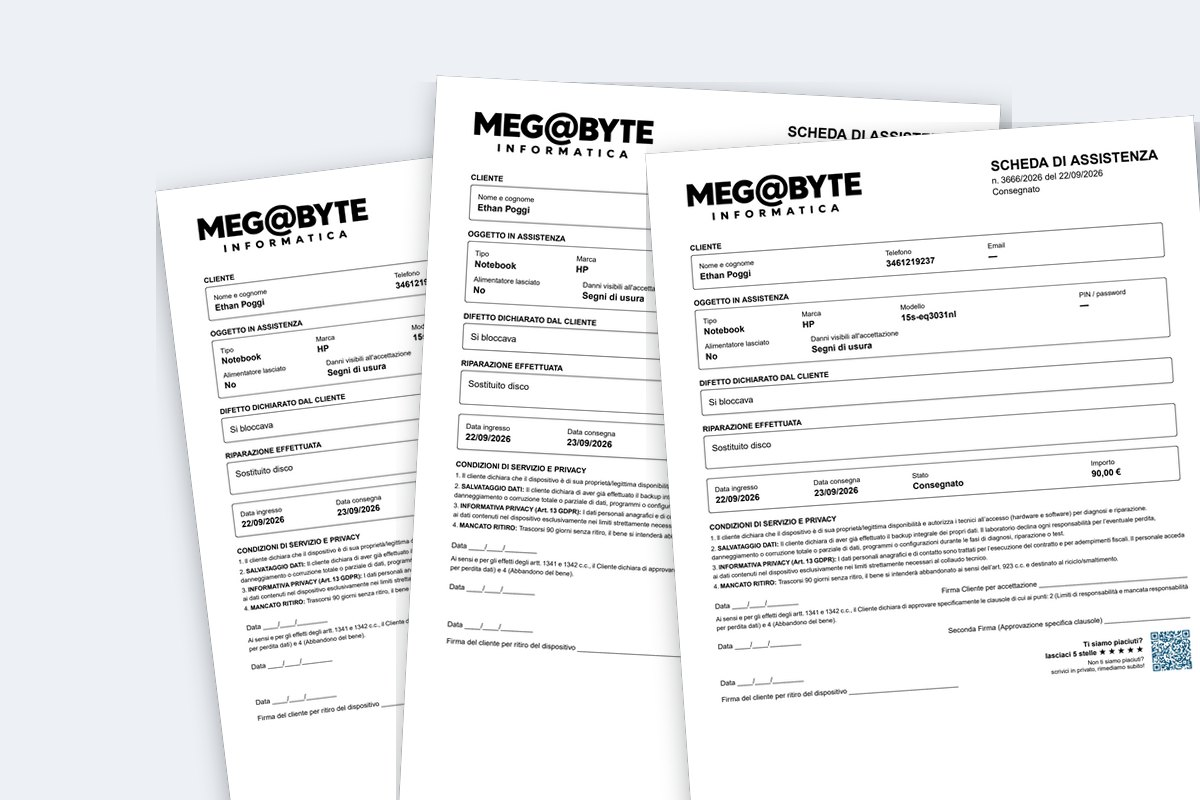
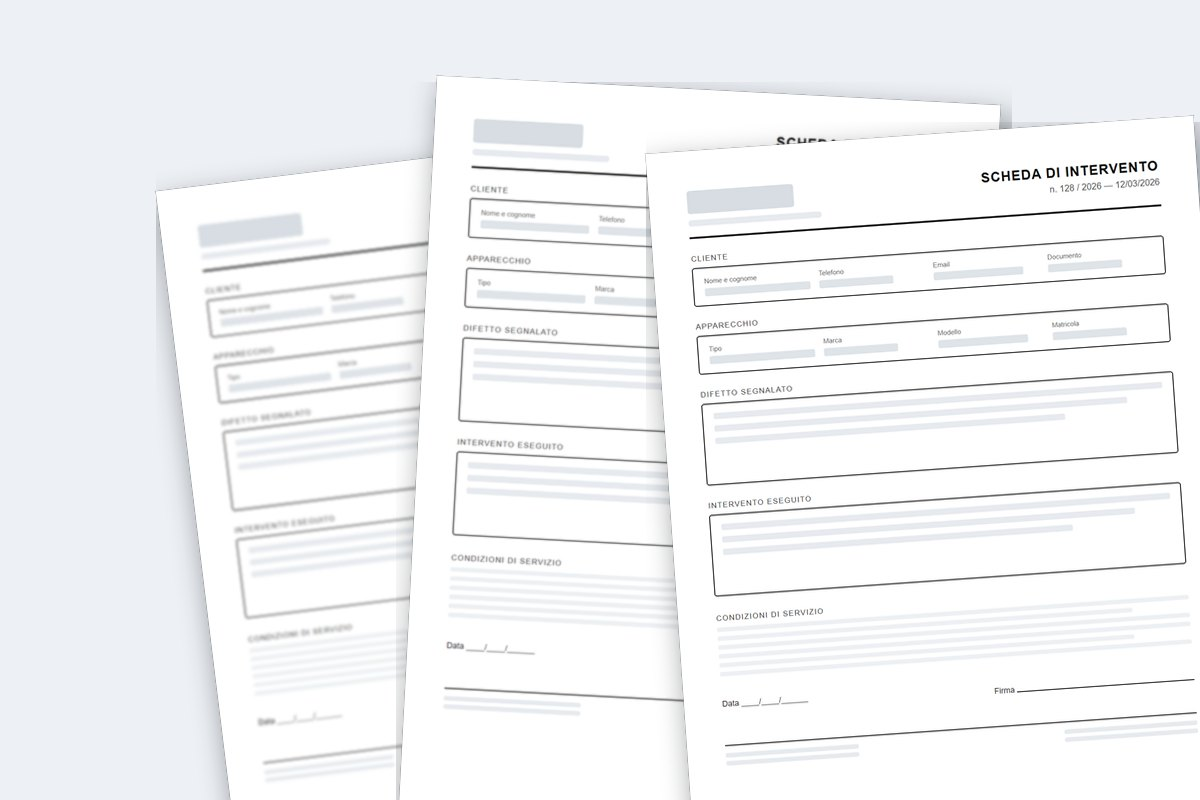
Documenti e stampe: moduli generici, senza il marchio del negozio

diff --git a/bozza-a/documenti-pdf.html b/bozza-a/documenti-pdf.html
@@ -145,7 +145,7 @@
             <a class="bottone bottone--secondario bottone--grande" href="https://wa.me/390686399483?text=Buongiorno%2C%20vi%20scrivo%20per%3A%20Documenti%20e%20stampe%20automatiche" rel="noopener"><svg class="ic" aria-hidden="true"><use href="#i-chat"/></svg> Scrivici su WhatsApp</a>
           </div>
         </div>
-        <figure class="foto foto--pagina"><img src="img/foto/documenti-pdf.jpg?v=20013829" alt="Tre schede di assistenza stampate, una accanto all'altra" width="1200" height="800" loading="lazy"></figure>
+        <figure class="foto foto--pagina"><img src="img/foto/documenti-pdf.jpg?v=b96fb732" alt="Tre moduli stampati uguali, appoggiati uno accanto all'altro" width="1200" height="800" loading="lazy"></figure>
       </div>
     </div>
   </section>

diff --git a/strumenti/genera.py b/strumenti/genera.py
@@ -67,7 +67,7 @@ FOTO = {
     'gestionali': 'Tablet che mostra un pannello con grafici e statistiche',
     'app': 'Mano che tiene uno smartphone davanti a un computer',
     'automazioni': 'Armadio di rete con le luci accese',
-    "documenti-pdf": "Tre schede di assistenza stampate, una accanto all'altra",
+    "documenti-pdf": "Tre moduli stampati uguali, appoggiati uno accanto all'altro",
     'pc-gaming': 'Computer da gaming assemblato, con il fianco in vetro e le ventole illuminate',
 }
 # I loghi degli operatori non vanno ritagliati: si vedono per intero

diff --git a/bozza-a/img/foto/CREDITI.md b/bozza-a/img/foto/CREDITI.md
@@ -15,6 +15,6 @@ Da sostituire con foto vere del negozio quando disponibili.
 - `gestionali.jpg` - https://www.pexels.com/photo/10020092/ - Tablet che mostra un pannello con grafici e statistiche
 - `app.jpg` - https://www.pexels.com/photo/887751/ - Mano che tiene uno smartphone davanti a un computer portatile
 - `automazioni.jpg` - https://www.pexels.com/photo/1148820/ - Armadio di rete con luci accese
-- `documenti-pdf.jpg` - nostra: tre schede di assistenza stampate dal gestionale, messe in fila
+- `documenti-pdf.jpg` - nostra: tre moduli generici stampati, composti al computer (niente marchi)
 - `visibilita-google.jpg` - https://www.pexels.com/photo/4543006/ - Mano che tiene uno smartphone con una mappa aperta
 - `banco.jpg` - https://www.pexels.com/photo/10558600/ - Mani al lavoro su un portatile aperto, viste dall'alto
